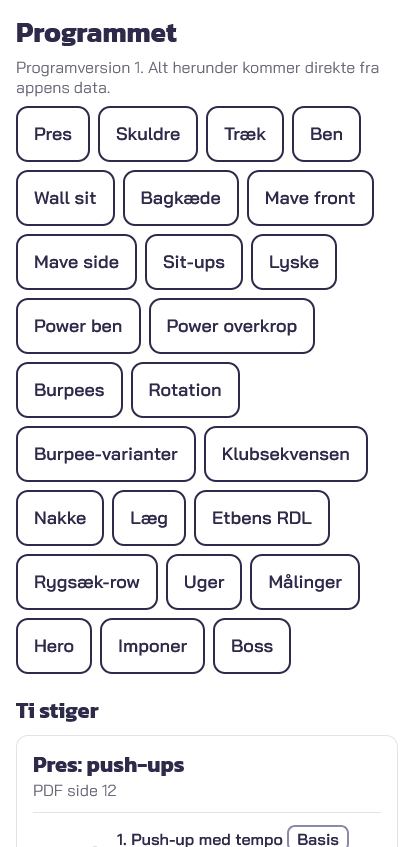
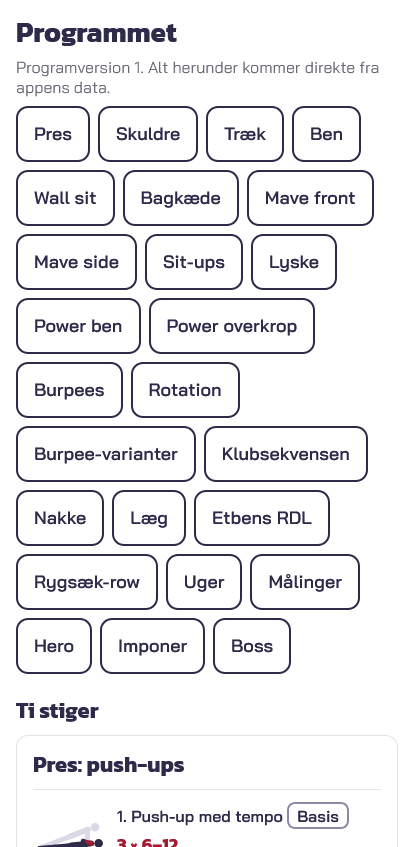
ui: no PDF, page or source references in the app (SK10, A2)
Om no longer points to the programme's sources, »Hvorfor« in a session
shows the programme's boxes without page numbers and citations (through
withoutSources), the data page /program/ shows no page numbers (D38),
and the flat-week note drops its page. A Vitest test reads every string
and JSX text in src/ and every programme string as the app shows it; a
Playwright flow reads I dag, Uge, all ladders, Mere, Om, Diagnose, a
session's »Hvorfor« and /program/.

Claude-Session: https://claude.ai/code/session_01VvEZwHjN2YfzgiuhfjhRt4

Changed region(s): [[0.087, 0.9209, 0.8406, 1.0]]

diff --git a/src/ui/__tests__/no-source-refs.test.ts b/src/ui/__tests__/no-source-refs.test.ts
@@ -1,0 +1,111 @@
+// SK10 (docs/SPEC.md 1, docs/DECISIONS.md A2): no text in the app refers to the PDF, a page number
+// or a source outside the app. This test reads every string and JSX text in the app's source code
+// and every string in the programme data as the app shows it; content/ is checked by its own
+// validation, and e2e/no-source-refs.spec.ts reads the screens themselves.
+import { readdirSync, readFileSync } from 'node:fs';
+import { join, relative } from 'node:path';
+import ts from 'typescript';
+import { describe, expect, test } from 'vitest';
+import { findSourceRef, withoutSources } from '../../content/refs.ts';
+
+const ROOT = process.cwd();
+
+/** The detector's own patterns and the content check's messages; the app never shows them. */
+const NOT_SHOWN = new Set(['src/content/refs.ts', 'src/content/validate.ts']);
+
+const rel = (file: string) => relative(ROOT, file).split('\\').join('/');
+
+function walk(dir: string, keep: (file: string) => boolean): string[] {
+  return readdirSync(dir, { withFileTypes: true }).flatMap((d) => {
+    const path = join(dir, d.name);
+    if (d.isDirectory()) return d.name === '__tests__' ? [] : walk(path, keep);
+    return keep(path) ? [path] : [];
+  });
+}
+
+/** Every string literal, template part and JSX text in a TypeScript file, with its line. */
+function texts(file: string): Array<{ line: number; text: string }> {
+  const code = readFileSync(file, 'utf8');
+  const kind = file.endsWith('.tsx') ? ts.ScriptKind.TSX : ts.ScriptKind.TS;
+  const source = ts.createSourceFile(file, code, ts.ScriptTarget.Latest, true, kind);
+  const found: Array<{ line: number; text: string }> = [];
+  const visit = (node: ts.Node): void => {
+    // Module paths are not text the app shows.
+    if (ts.isImportDeclaration(node) || ts.isExportDeclaration(node)) return;
+    if (
+      ts.isStringLiteral(node) ||
+      ts.isNoSubstitutionTemplateLiteral(node) ||
+      ts.isTemplateHead(node) ||
+      ts.isTemplateMiddle(node) ||
+      ts.isTemplateTail(node) ||
+      ts.isJsxText(node)
+    ) {
+      const line = source.getLineAndCharacterOfPosition(node.getStart(source)).line + 1;
+      found.push({ line, text: node.text });
+    }
+    ts.forEachChild(node, visit);
+  };
+  visit(source);
+  return found;
+}
+
+/** Every string in a JSON value with its path: »why[0].text«. */
+function strings(value: unknown, path = ''): Array<{ path: string; text: string }> {
+  if (typeof value === 'string') return [{ path, text: value }];
+  if (Array.isArray(value)) return value.flatMap((v, i) => strings(v, `${path}[${i}]`));
+  if (typeof value === 'object' && value !== null) {
+    return Object.entries(value).flatMap(([k, v]) => strings(v, path ? `${path}.${k}` : k));
+  }
+  return [];
+}
+
+describe('SK10: ingen henvisninger til PDF, sidetal eller kilder', () => {
+  test('ingen tekst i appens kildekode', () => {
+    const files = walk(join(ROOT, 'src'), (f) => /\.tsx?$/.test(f) && !f.endsWith('.d.ts'));
+    expect(files.length).toBeGreaterThan(30);
+    const found = files
+      .filter((f) => !NOT_SHOWN.has(rel(f)))
+      .flatMap((file) =>
+        texts(file)
+          .filter((t) => findSourceRef(t.text))
+          .map((t) => `${rel(file)}:${t.line}: »${t.text.trim()}«`),
+      );
+    expect(found).toEqual([]);
+  });
+
+  test('programdata har kun henvisninger i sporenes »why«, og appen viser dem uden', () => {
+    const files = walk(join(ROOT, 'program'), (f) => f.endsWith('.json'));
+    const refs = files.flatMap((file) =>
+      strings(JSON.parse(readFileSync(file, 'utf8')))
+        .filter((s) => findSourceRef(s.text))
+        .map((s) => ({ where: `${rel(file)} › ${s.path}`, text: s.text })),
+    );
+    // The programme's own boxes cite pages and studies; those are the only places.
+    expect(refs.length).toBeGreaterThan(0);
+    const elsewhere = refs.filter(
+      (r) => !/^program\/tracks\/\w+\.json › why\[\d+\]\.text$/.test(r.where),
+    );
+    expect(elsewhere.map((r) => `${r.where}: »${r.text}«`)).toEqual([]);
+    const left = refs.filter((r) => findSourceRef(withoutSources(r.text)));
+    expect(left.map((r) => `${r.where}: »${withoutSources(r.text)}«`)).toEqual([]);
+  });
+
+  test('withoutSources fjerner sidetal og kildehenvisninger og lader resten stå', () => {
+    expect(withoutSources('Ugens loft står i ugeoversigten (side 37).')).toBe(
+      'Ugens loft står i ugeoversigten.',
+    );
+    expect(
+      withoutSources(
+        'Nordic-programmer har cirka halveret baglårsskader (van Dyk 2019); en genanalyse.',
+      ),
+    ).toBe('Nordic-programmer har cirka halveret baglårsskader; en genanalyse.');
+    expect(withoutSources('Ingen sikker forebyggelse (meget lav sikkerhed).')).toBe(
+      'Ingen sikker forebyggelse (meget lav sikkerhed).',
+    );
+    expect(findSourceRef('45 sek pr. side')).toBeNull();
+    // innerText separates table cells with a tab: »pr. side⇥40« is not a page.
+    expect(findSourceRef('Sideplanke pr. side\t40 sek\n4 dage')).toBeNull();
+    expect(findSourceRef('se side 47')).not.toBeNull();
+    expect(findSourceRef('Kilderne står i programmets side 54.')).not.toBeNull();
+  });
+});

diff --git a/e2e/no-source-refs.spec.ts b/e2e/no-source-refs.spec.ts
@@ -1,0 +1,73 @@
+import { expect, test, type Page } from '@playwright/test';
+import { findSourceRef } from '../src/content/refs.ts';
+import { onboard, openApp } from './helpers.ts';
+
+// SK10 (docs/SPEC.md 1, docs/DECISIONS.md A2): no screen refers to the PDF, a page number or a
+// source outside the app – I dag, Uge, every ladder, Mere, Om, Diagnose, the data page /program/
+// and »Hvorfor« in a session, whose programme text cites a study (power legs).
+
+test.describe.configure({ timeout: 180_000 });
+
+async function expectNoRefs(page: Page, where: string): Promise<void> {
+  const text = await page.locator('body').innerText();
+  const ref = findSourceRef(text);
+  expect(ref, `${where} henviser til »${ref}«`).toBeNull();
+}
+
+test('ingen skærm henviser til PDF, sidetal eller kilder (SK10)', async ({ page }) => {
+  await openApp(page, '2026-11-17');
+  await onboard(page);
+  await expectNoRefs(page, 'I dag');
+
+  await page.getByRole('button', { name: 'Uge', exact: true }).click();
+  await expect(page.getByTestId('week')).toBeVisible();
+  await expectNoRefs(page, 'Uge');
+
+  await page.getByRole('button', { name: 'Stiger', exact: true }).click();
+  const rows = page.locator('.ladder-row');
+  await expect(rows).toHaveCount(13);
+  await expectNoRefs(page, 'Stiger');
+  for (let i = 0; i < 13; i++) {
+    const name = (await rows.nth(i).locator('.ladder-name').innerText()).trim();
+    await rows.nth(i).click();
+    await expect(page.locator('.ladder-detail')).toBeVisible();
+    await expectNoRefs(page, `Stiger → ${name}`);
+    await page.getByRole('button', { name: 'Tilbage' }).click();
+  }
+
+  await page.getByRole('button', { name: 'Mere', exact: true }).click();
+  await expectNoRefs(page, 'Mere');
+  for (const item of ['Historik', 'Backup']) {
+    await page.getByRole('button', { name: item, exact: true }).click();
+    await expectNoRefs(page, `Mere → ${item}`);
+    await page.getByRole('button', { name: 'Tilbage' }).click();
+  }
+  await page.getByRole('button', { name: 'Om', exact: true }).click();
+  await expect(page.getByTestId('about')).toContainText('Programversion');
+  await expectNoRefs(page, 'Om');
+  await page.screenshot({ path: 'screenshots/om.png', scale: 'css' });
+  await page.getByTestId('diagnose-open').click();
+  await expect(page.getByTestId('diagnose')).toBeVisible();
+  await expectNoRefs(page, 'Diagnose');
+
+  // A session: the first set is power legs, whose »Hvorfor« is the programme's evidence box.
+  await page.getByRole('button', { name: 'I dag', exact: true }).click();
+  await page.getByTestId('start-session').click();
+  await expectNoRefs(page, 'Trafiklyset');
+  await page.getByRole('button', { name: 'Start opvarmningen' }).click();
+  await expectNoRefs(page, 'Opvarmningen');
+  for (let i = 0; i < 4; i++) await page.clock.runFor(181_000);
+  await page.getByRole('button', { name: 'GRØN – kør passet' }).click();
+  await expect(page.getByTestId('as-planned')).toBeVisible();
+  await page.locator('details.why summary').click();
+  const why = page.locator('details.why');
+  await expect(why).toContainText('At stoppe ved ca. 20 % fartfald');
+  await expect(why).not.toContainText('Pareja-Blanco');
+  await expect(why).not.toContainText('PDF');
+  await expectNoRefs(page, 'Hvorfor i passet');
+  await page.screenshot({ path: 'screenshots/hvorfor.png', scale: 'css', fullPage: true });
+
+  await page.goto('/comeback/program/');
+  await expect(page.locator('.prog-track')).toHaveCount(20);
+  await expectNoRefs(page, '/program/');
+});

diff --git a/src/ui/screens/ProgramPage.tsx b/src/ui/screens/ProgramPage.tsx
@@ -1,5 +1,6 @@
 // /program: every ladder and step, the week table, measurements and catalogues straight from
-// program/*.json, read-only, for comparing with the PDF (docs/PLAN.md milestone 1).
+// program/*.json, read-only, for checking the programme (docs/PLAN.md milestone 1). No page
+// numbers: the app never refers to the PDF (docs/DECISIONS.md A2, D38).
 import { formatDose } from '../../engine/format.ts';
 import { PROGRAM } from '../../engine/program.ts';
 import type { Level, Track } from '../../engine/types.ts';
@@ -21,7 +22,6 @@ function TrackSection({ track }: { track: Track }) {
   return (
     <section class="prog-track card" id={track.id}>
       <h2>{track.name}</h2>
-      <p class="muted">PDF side {track.pdfPage}</p>
       <ol class="prog-steps">
         {track.steps.map((step) => (
           <li key={step.id} class="prog-step">

diff --git a/src/ui/session/Runner.tsx b/src/ui/session/Runner.tsx
@@ -19,6 +19,7 @@ import {
   type SessionPlan,
 } from '../../engine/index.ts';
 import type { Light, Pain, Rir, SessionSummary, Side } from '../../engine/types.ts';
+import { withoutSources } from '../../content/refs.ts';
 import { audioState, enableAudio, play } from '../audio.ts';
 import { Picto } from '../components/Picto.tsx';
 import { readLocal, useModel, writeLocal } from '../hooks.ts';
@@ -1007,9 +1008,8 @@ function SetStep(props: {
         <summary>Hvorfor</summary>
         <p>{stepData.execution}</p>
         {getTrack(PROGRAM, block.trackId).why?.map((w) => (
-          <p key={w.text}>{w.text}</p>
+          <p key={w.text}>{withoutSources(w.text)}</p>
         ))}
-        <p class="muted">PDF side {stepData.pdfPage}</p>
       </details>
     </div>
   );

diff --git a/src/content/refs.ts b/src/content/refs.ts
@@ -10,7 +10,9 @@ const CITATION = String.raw`\([\p{L}'’ .&-]*\p{Lu}[\p{L}'’-]*,?\s(?:19|20)\d
 const PATTERNS: RegExp[] = [
   /\bPDF/iu,
   /\bsidetal/iu,
-  /\b(?:side|sider|s\.)\s*\d/iu,
+  // »side 47« with at most one space (or a no-break space); a tab or a line break is a new table
+  // cell or line in the screen's text, not a page number.
+  /\b(?:side|sider|s\.)[  ]?\d/iu,
   /\bkild(?:e|en|ens|er|erne|ernes)\b/iu,
   new RegExp(CITATION, 'u'),
   /\bhttps?:\/\//iu,

diff --git a/src/ui/screens/More.tsx b/src/ui/screens/More.tsx
@@ -249,7 +249,7 @@ function About({ model, onPage }: { model: Model; onPage: (p: MorePage) => void 
       <p>Programversion {PROGRAM.programVersion}</p>
       <p class="muted">
         Comeback – sekundærtræning til Muay Thai. Programmet er den faglige sandhed; appen ændrer
-        aldrig indholdet. Kilderne står i programmets side 54.
+        aldrig indholdet.
       </p>
       <button
         type="button"

diff --git a/src/ui/screens/Today.tsx b/src/ui/screens/Today.tsx
@@ -144,7 +144,7 @@ export function Today(props: {
           case 'reduced_volume':
             return (
               <p key="flat" class="flag">
-                To flade uger i træk: en tredjedel færre sæt denne uge (side 39).
+                To flade uger i træk: en tredjedel færre sæt denne uge.
               </p>
             );
           case 'light_week':
